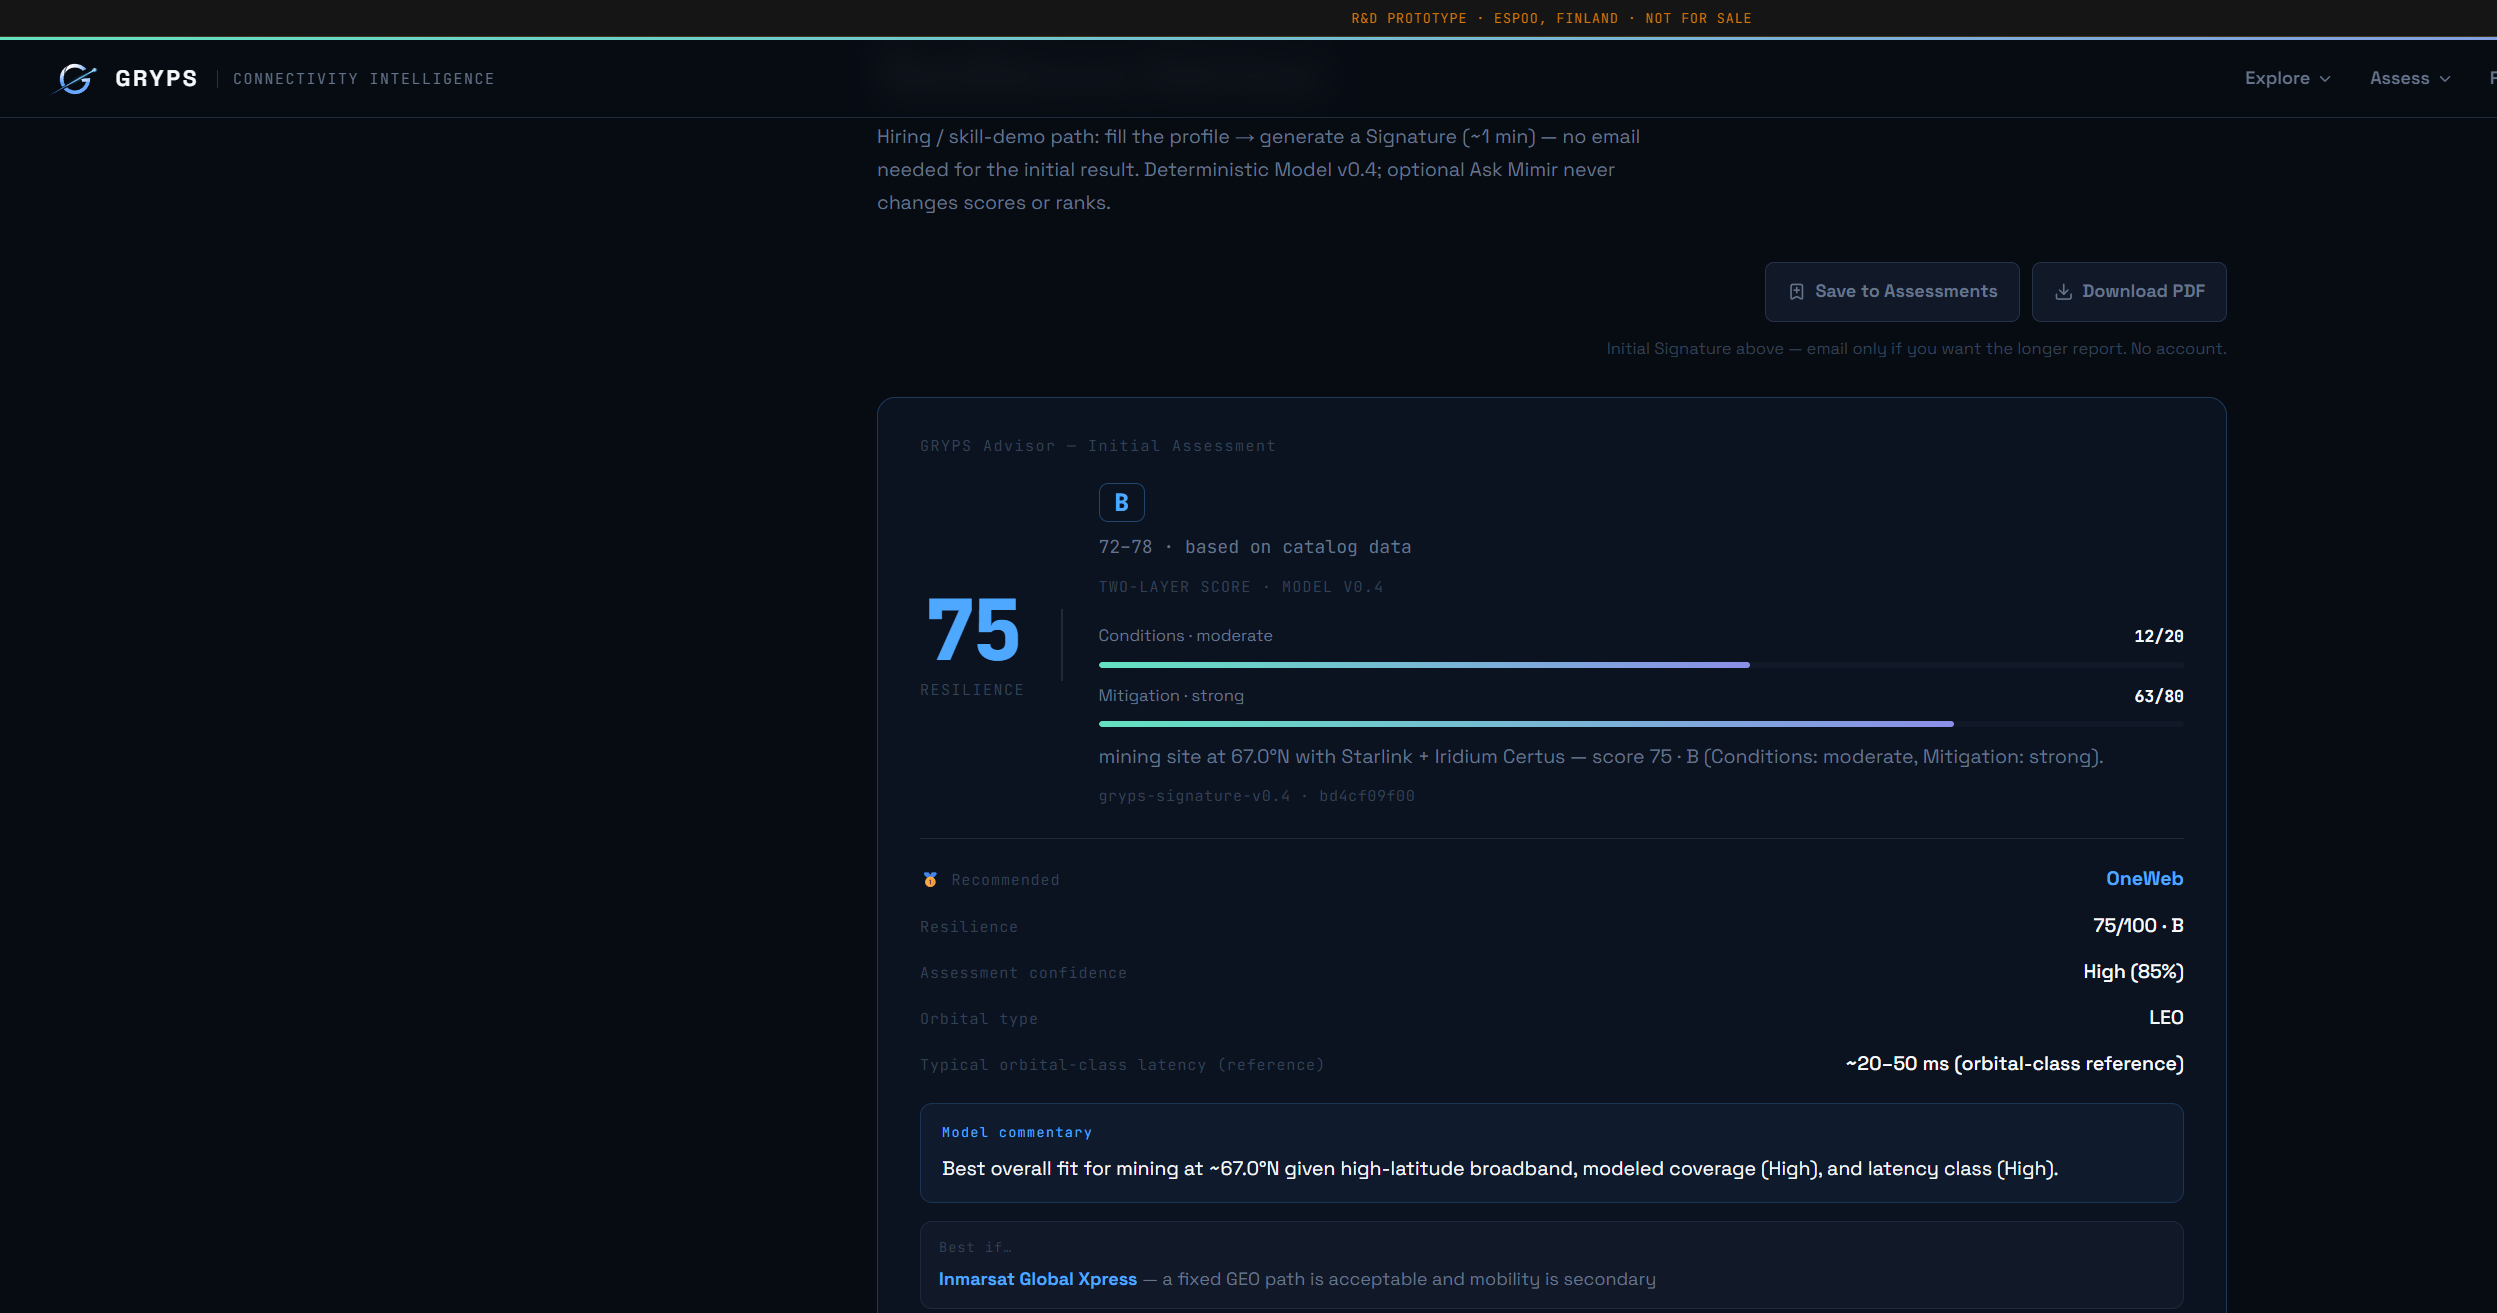
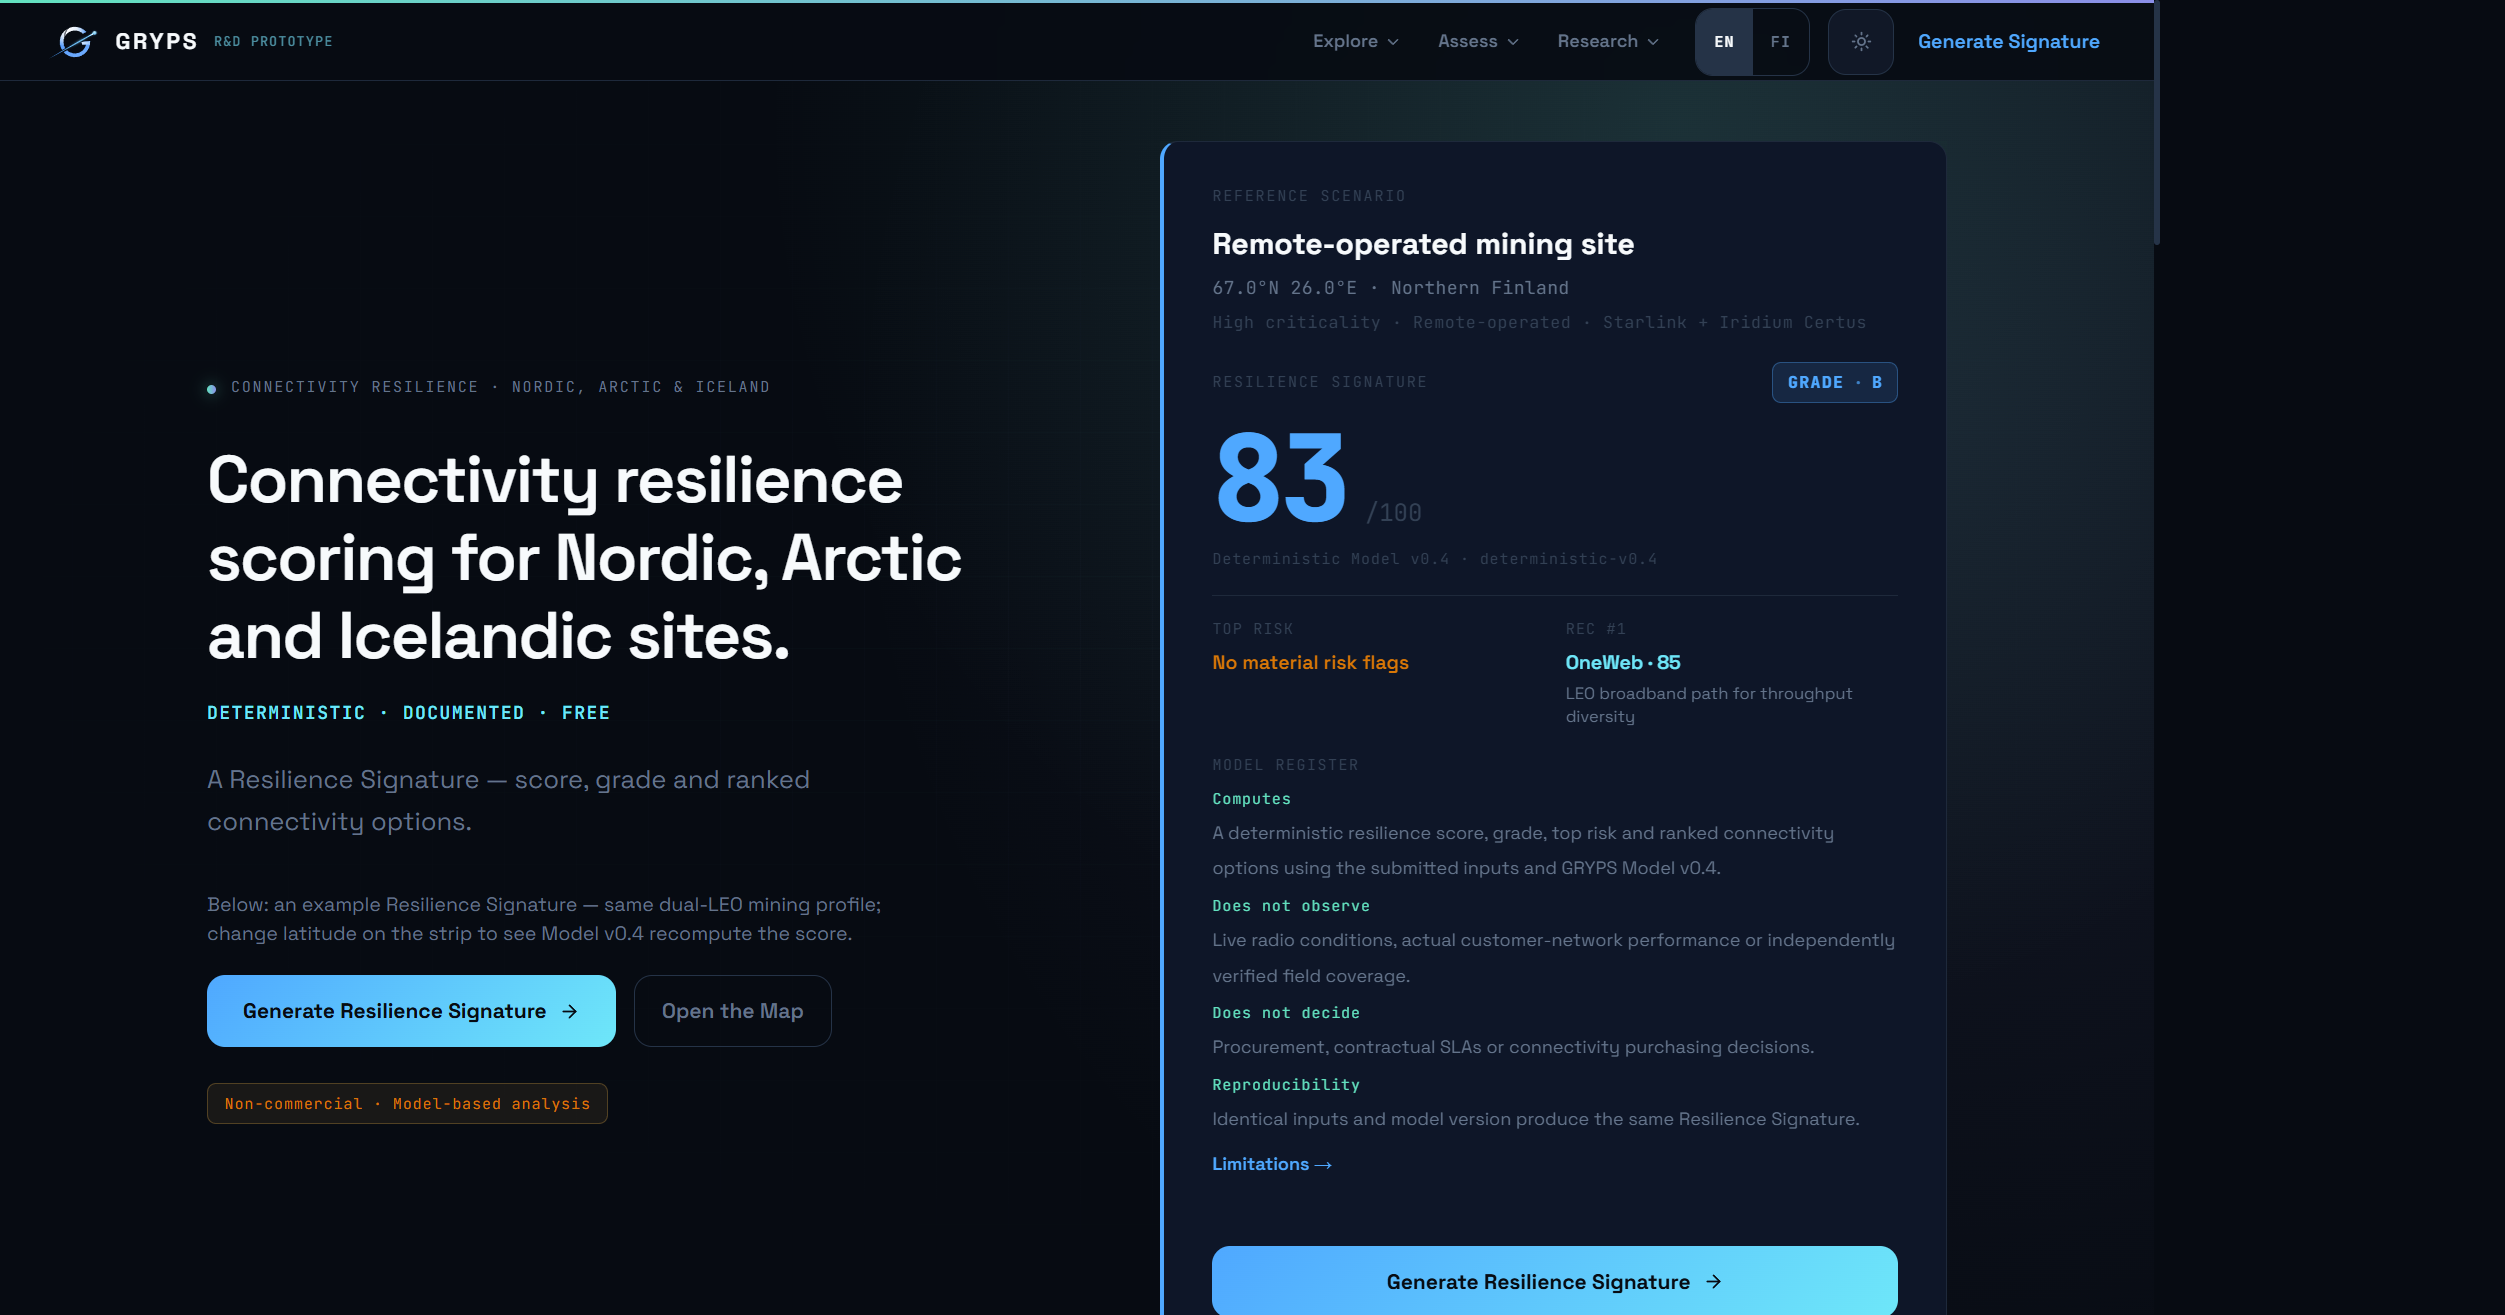
Sync GRYPS portfolio shots and copy with live dc73abc (83 · B mining reference).

diff --git a/src/pages/work/GrypsCase.jsx b/src/pages/work/GrypsCase.jsx
@@ -180,7 +180,7 @@ export default function GrypsCase({ theme = 'dark' }) {
         <figure style={{ margin: '0 0 28px', maxWidth: 900 }}>
           <img
             src="/work/gryps-signature.png"
-            alt="GRYPS Resilience Signature — score 75, grade B for a mining site at 67°N with Starlink and Iridium Certus"
+            alt="GRYPS live hero with R&D PROTOTYPE chip and mining Resilience Signature 83 · B, Rec #1 OneWeb · 85"
             width={1200}
             height={750}
             loading="eager"
@@ -188,7 +188,7 @@ export default function GrypsCase({ theme = 'dark' }) {
             style={{ width: '100%', height: 'auto', display: 'block', border: `1px solid ${c.iceBorder}`, borderRadius: 2, background: '#0B0F17' }}
           />
           <figcaption style={{ marginTop: 8, fontFamily: "'JetBrains Mono', monospace", fontSize: '8px', letterSpacing: '0.08em', color: c.quiet, lineHeight: 1.55 }}>
-            Signature artifact · Model v0.4 · open the Advisor to generate a live assessment
+            Live reference · mining 83 · B · OneWeb · 85 · Model v0.4 · R&D PROTOTYPE chip beside wordmark
           </figcaption>
         </figure>
 
@@ -235,8 +235,8 @@ export default function GrypsCase({ theme = 'dark' }) {
               <Paras paras={caseCopy.role.paras} c={c} />
               <figure style={{ margin: '20px 0 0' }}>
                 <img
-                  src="/work/gryps-advisor.png"
-                  alt="GRYPS Resilience Advisor form with mining profile and dual LEO providers selected"
+                  src="/work/gryps-fi-hero.png"
+                  alt="GRYPS Finnish UI with T&K-PROTOTYYPPI chip and mining Signature 83 · B, OneWeb · 85"
                   width={1200}
                   height={750}
                   loading="lazy"
@@ -244,7 +244,7 @@ export default function GrypsCase({ theme = 'dark' }) {
                   style={{ width: '100%', height: 'auto', display: 'block', border: `1px solid ${c.iceBorder}`, borderRadius: 2 }}
                 />
                 <figcaption style={{ marginTop: 8, fontFamily: "'JetBrains Mono', monospace", fontSize: '8px', letterSpacing: '0.08em', color: c.quiet }}>
-                  Advisor inputs · Mining · Autonomous · Safety-critical · Starlink + Iridium Certus
+                  FI UI · T&K-PROTOTYYPPI chip · same mining reference 83 · B · OneWeb · 85
                 </figcaption>
               </figure>
             </CaseSection>
@@ -272,6 +272,43 @@ export default function GrypsCase({ theme = 'dark' }) {
 
             <CaseSection id="demonstration" label={caseCopy.demonstration.label} accent={c.amber}>
               <Paras paras={caseCopy.demonstration.paras} c={c} />
+              <div
+                style={{
+                  marginTop: 20,
+                  display: 'grid',
+                  gridTemplateColumns: phone ? '1fr' : '1fr 1fr',
+                  gap: 16,
+                }}
+              >
+                <figure style={{ margin: 0 }}>
+                  <img
+                    src="/work/gryps-mobile-signature.png"
+                    alt="GRYPS mobile Signature card — mining 83 · B with R&D PROTOTYPE chip and OneWeb · 85"
+                    width={750}
+                    height={1334}
+                    loading="lazy"
+                    decoding="async"
+                    style={{ width: '100%', height: 'auto', display: 'block', border: `1px solid ${c.iceBorder}`, borderRadius: 2, background: '#0B0F17' }}
+                  />
+                  <figcaption style={{ marginTop: 8, fontFamily: "'JetBrains Mono', monospace", fontSize: '8px', letterSpacing: '0.08em', color: c.quiet }}>
+                    Mobile · Signature 83 · B · OneWeb · 85
+                  </figcaption>
+                </figure>
+                <figure style={{ margin: 0 }}>
+                  <img
+                    src="/work/gryps-footer-disclosure.png"
+                    alt="GRYPS footer disclosure — non-commercial R&D research prototype, Model v0.4, Espoo Finland"
+                    width={1200}
+                    height={750}
+                    loading="lazy"
+                    decoding="async"
+                    style={{ width: '100%', height: 'auto', display: 'block', border: `1px solid ${c.iceBorder}`, borderRadius: 2, background: '#0B0F17' }}
+                  />
+                  <figcaption style={{ marginTop: 8, fontFamily: "'JetBrains Mono', monospace", fontSize: '8px', letterSpacing: '0.08em', color: c.quiet }}>
+                    Footer proof · non-commercial · Model v0.4 · Espoo
+                  </figcaption>
+                </figure>
+              </div>
             </CaseSection>
 
             <CaseSection id="limitations" label={caseCopy.limitations.label} accent={c.amber}>

diff --git a/src/copy.js b/src/copy.js
@@ -62,7 +62,8 @@ export const CAPABILITIES_GROUPS = [
 /** Featured projects — homepage skim. Depth on case pages / Triangora details. */
 export const FEATURED_PROJECTS = {
   gryps: {
-    blurb: 'Remote connectivity resilience intelligence for industrial operations.',
+    blurb:
+      'Assess → score → rank → document a Resilience Signature for Nordic / Arctic remote connectivity (Model v0.4). Reference scenario: mining 83 · B · OneWeb · 85.',
     themes: ['Problem framing', 'Research & data evaluation', 'Decision-support design', 'Prototype development'],
     status: 'Non-commercial research prototype · Interactive decision-support demonstration',
   },
@@ -204,7 +205,7 @@ export const GRYPS_CASE = {
     label: 'Demonstration and outputs',
     paras: [
       'Open the Advisor, set latitude / longitude and an operational profile (providers, autonomy, criticality), generate a Signature in about a minute — no account or email for the initial result.',
-      'Output: Resilience Signature with score, grade, risks and ranked options. Methodology lives on the project site. The portfolio’s Path A freeze (e.g. Score 47 · Grade D) is an illustrative snapshot; the Advisor produces a live assessment.',
+      'Output: Resilience Signature with score, grade, risks and ranked options (Model v0.4). Reference scenario on this portfolio: remote-operated mining · 83 · B · Rec #1 OneWeb · 85. Status UX uses a compact R&D PROTOTYPE / T&K-PROTOTYYPPI chip — not a commercial banner. The Path A motion panel (Score 47 · Grade D) is a separate illustrative freeze; the Advisor produces a live assessment.',
     ],
   },
   limitations: {

diff --git a/src/pages/Portfolio.jsx b/src/pages/Portfolio.jsx
@@ -990,8 +990,8 @@ function Work({ isLight }) {
           <div style={{ ...figCap }}>
             <CaseShot
               src="/work/gryps-signature.png"
-              alt="GRYPS Resilience Signature — score 75, grade B for a mining site at 67°N"
-              caption="Live Signature artifact · score, grade, risks, ranked option · Model v0.4"
+              alt="GRYPS live hero with R&D PROTOTYPE chip and mining Resilience Signature 83 · B, Rec #1 OneWeb · 85"
+              caption="Live reference · mining 83 · B · OneWeb · 85 · Model v0.4 · R&D PROTOTYPE chip (no amber banner)"
               border={c.iceBorder}
             />
           </div>
